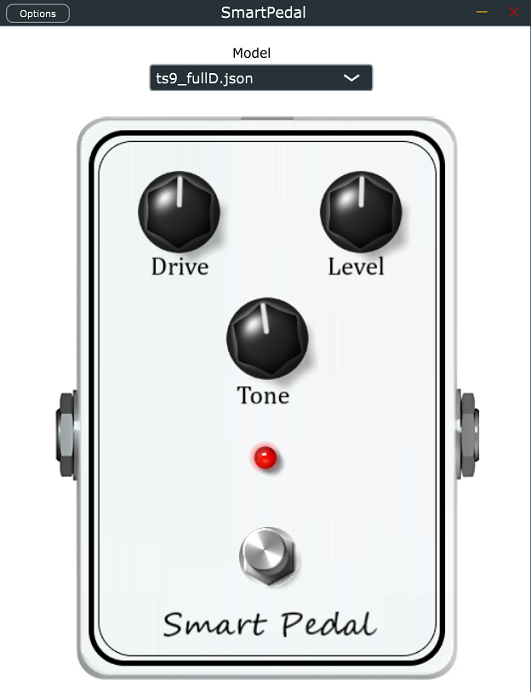
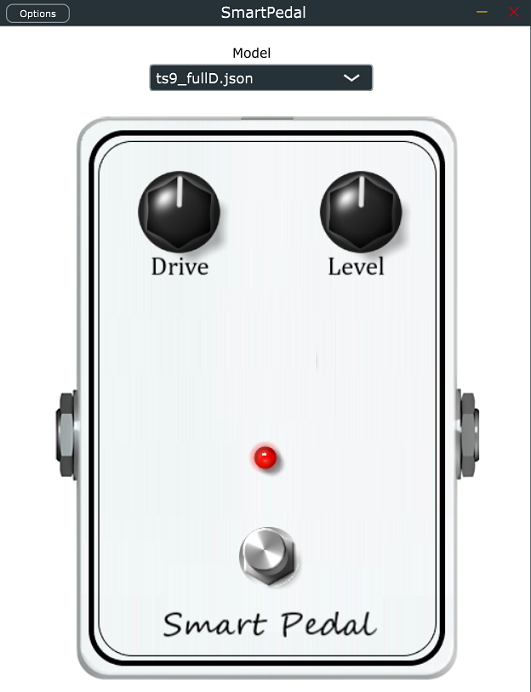
Tone control is making bad clicking sounds when adjusting. Removing for now.

Changed region(s): [[0.4218, 0.4249, 0.6026, 0.6069]]

diff --git a/SmartPedal/Source/PluginEditor.cpp b/SmartPedal/Source/PluginEditor.cpp
@@ -70,16 +70,6 @@ SmartPedalAudioProcessorEditor::SmartPedalAudioProcessorEditor (SmartPedalAudioP
     odDriveKnob.setNumDecimalPlacesToDisplay(1);
     odDriveKnob.setDoubleClickReturnValue(true, 0.0);
 
-    addAndMakeVisible(odToneKnob);
-    odToneKnob.setLookAndFeel(&blackHexKnobLAF);
-    odToneKnob.addListener(this);
-    odToneKnob.setRange(1000.0, 20000.0);
-    odToneKnob.setValue(10500.0);
-    odToneKnob.setSliderStyle(juce::Slider::SliderStyle::RotaryVerticalDrag);
-    odToneKnob.setTextBoxStyle(juce::Slider::TextEntryBoxPosition::NoTextBox, false, 50, 20);
-    odToneKnob.setNumDecimalPlacesToDisplay(1);
-    odToneKnob.setDoubleClickReturnValue(true, 10000.0);
-
     addAndMakeVisible(odLevelKnob);
     odLevelKnob.setLookAndFeel(&blackHexKnobLAF);
     odLevelKnob.addListener(this);
@@ -140,7 +130,6 @@ void SmartPedalAudioProcessorEditor::resized()
     // Overdrive Widgets
     odDriveKnob.setBounds(112, 115, 125, 145);
     odLevelKnob.setBounds(283, 115, 125, 145);
-    odToneKnob.setBounds(195, 234, 125, 145);
     odFootSw.setBounds(220, 459, 75, 105);
     odLED.setBounds(234, 398, 75, 105);
 }
@@ -176,8 +165,6 @@ void SmartPedalAudioProcessorEditor::sliderValueChanged(Slider* slider)
     // Overdrive    
     if (slider == &odDriveKnob)
         processor.set_odDrive(slider->getValue());
-    else if (slider == &odToneKnob)
-        processor.set_odTone(slider->getValue());
     else if (slider == &odLevelKnob)
         processor.set_odLevel(slider->getValue());
 }

diff --git a/SmartPedal/Source/PluginProcessor.cpp b/SmartPedal/Source/PluginProcessor.cpp
@@ -145,7 +145,6 @@ void SmartPedalAudioProcessor::processBlock (AudioBuffer<float>& buffer, MidiBuf
     // Overdrive Pedal ================================================================== 
     if (od_state == 1) {
         buffer.applyGain(odDrive);
-        reslowpass.process(buffer, midiMessages, numSamples, numInputChannels);
         waveNet.process(buffer.getArrayOfReadPointers(), buffer.getArrayOfWritePointers(),
             buffer.getNumSamples());
         buffer.applyGain(odLevel);
@@ -233,14 +232,6 @@ float SmartPedalAudioProcessor::convertLogScale(float in_value, float x_min, flo
     return converted_value;
 }
 
-
-void SmartPedalAudioProcessor::set_odTone(float toneKnobValue)
-{
-    float sampleRate = getSampleRate();
-    // Transform to log scale
-    float new_knobValue = convertLogScale(toneKnobValue, 1000, 20000, 1000, 20000);
-    reslowpass.setParameters(new_knobValue, sampleRate);
-}
 
 void SmartPedalAudioProcessor::set_odLevel(float db_odLevel)
 {

diff --git a/SmartPedal/Source/PluginProcessor.h b/SmartPedal/Source/PluginProcessor.h
@@ -13,7 +13,6 @@
 #include "../JuceLibraryCode/JuceHeader.h"
 #include "WaveNet.h"
 #include "WaveNetLoader.h"
-#include "ResonantLowpassFilter.h"
 
 
 //==============================================================================
@@ -69,7 +68,6 @@ public:
     // Overdrive Pedal
     void set_odDrive(float odDriveKnobLevel);
     float convertLogScale(float in_value, float x_min, float x_max, float y_min, float y_max);
-    void set_odTone(float toneKnobValue);
     void set_odLevel(float db_odLevel);
 
 
@@ -85,7 +83,6 @@ public:
 
 private:
     WaveNet waveNet;  // OverDrive Pedal
-    ResonantLowpassFilter reslowpass; // Overdrive tone control
     float preGain = 1.0;
     float postGain = 1.0;
     // Overdrive pedal

diff --git a/SmartPedal/Source/PluginEditor.h b/SmartPedal/Source/PluginEditor.h
@@ -49,7 +49,6 @@ private:
     // Overdrive Widgets
     Slider odDriveKnob;
     Slider odLevelKnob;
-    Slider odToneKnob;
     ImageButton odFootSw;
     ImageButton odLED;
 

diff --git a/README.md b/README.md
@@ -6,7 +6,7 @@ See video demo here:
 https://www.youtube.com/watch?v=4zwZNa7Kwwo&t=58s
 
 This plugin uses a WaveNet model to recreate the sound of real world hardware, such as
-a TS9 Tubescreamer or Blues Jr amp. Drive, Level, and Tone were added for simple ways to
+a TS9 Tubescreamer or Blues Jr amp. Drive and Level are used for simple ways to
 control the sound. The WaveNet model is effective at emulating distortion style effects or tube amplifiers.
 
 ![app](https://github.com/keyth72/SmartGuitarPedal/blob/master/resources/app_pic.png)
